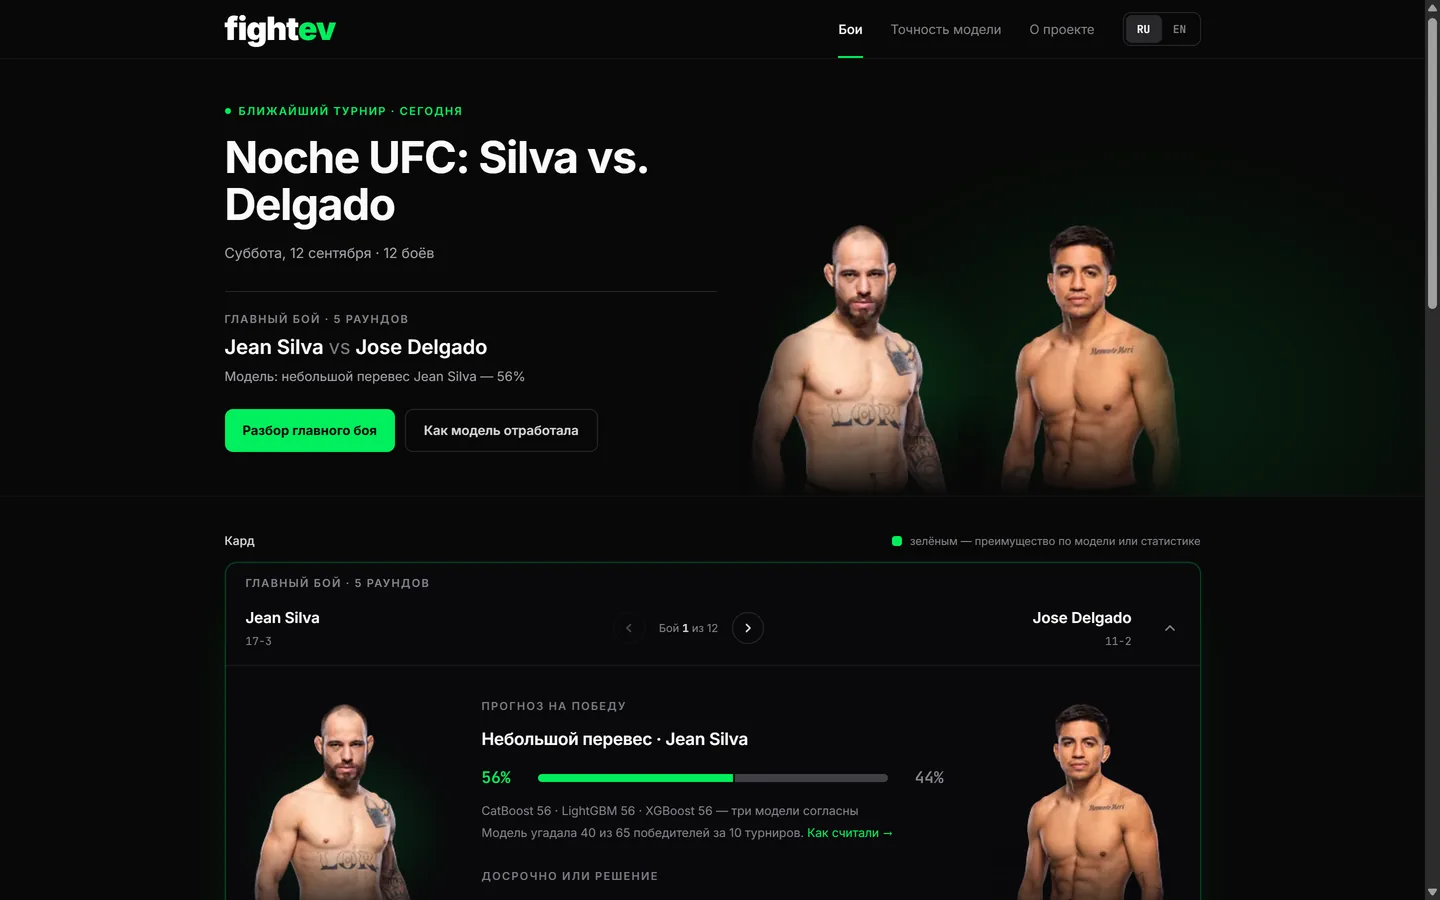
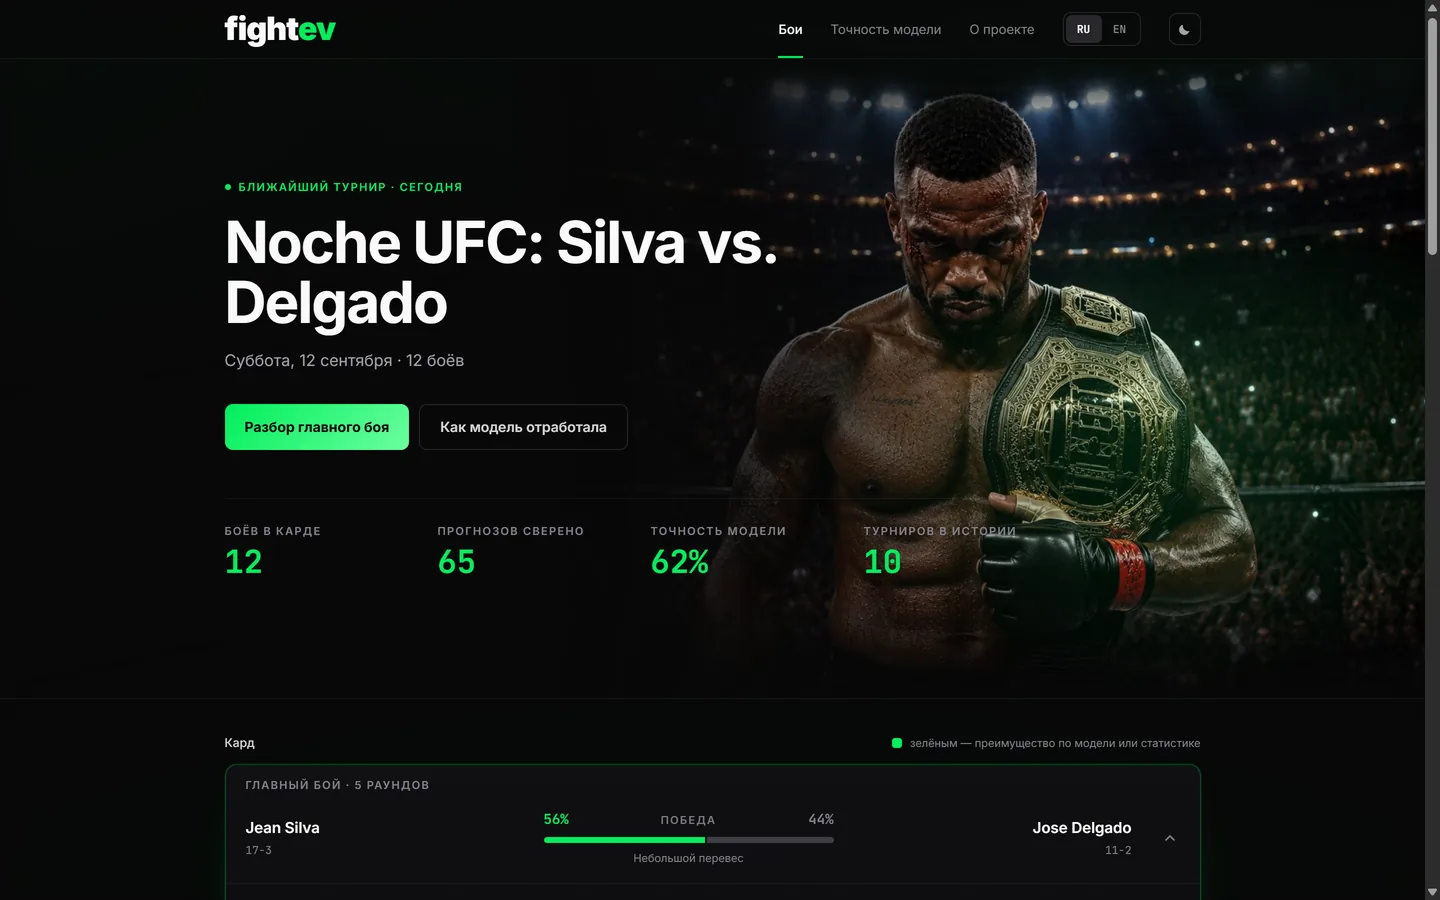
Tale of the tape leads the panel, pager moves to its foot, closer hero crop on phones

diff --git a/src/components/FightCard.tsx b/src/components/FightCard.tsx
@@ -4,8 +4,8 @@ import type { Fight, Fighter, Track } from '../data'
 import { useI18n } from '../i18n'
 import { Z600, cx, lowData, record, split, verdict } from '../lib/fight'
 import { Collapse } from '../lib/motion'
-import { PredictionBlock, ResultBadge, SidePanel, TapeDesktop, TapeMobile, resultText } from './FightDetails'
-import { Avatar, Chevron, Pct, Portrait, ProbBar, SectionLabel, Tag } from './ui'
+import { Module, PredictionBlock, ResultBadge, SidePanel, TapeDesktop, TapeMobile, resultText } from './FightDetails'
+import { Avatar, Chevron, Pct, Portrait, ProbBar, Tag } from './ui'
 
 interface Props {
   fight: Fight
@@ -112,7 +112,9 @@ function DesktopSide({ f, open, right }: { f: Fighter; open: boolean; right?: bo
   )
 }
 
-function DesktopPanel({ fight, track }: { fight: Fight; track: Track }) {
+function DesktopPanel({ fight, track, index, total, onGo }: {
+  fight: Fight; track: Track; index: number; total: number; onGo: (i: number) => void
+}) {
   const { t } = useI18n()
   const p1 = fight.p_win_f1
   return (
@@ -122,22 +124,21 @@ function DesktopPanel({ fight, track }: { fight: Fight; track: Track }) {
           <Portrait f={fight.fighter_1} fav={p1 > 0.5} />
           <SidePanel f={fight.fighter_1} />
         </div>
-        <div className="flex flex-col gap-2.5 pt-1">
-          <PredictionBlock fight={fight} track={track} />
-          <section className="stack-item relative rounded-xl border border-line bg-mod px-4 py-3.5"
-            style={{ zIndex: 17, animationDelay: '270ms' }}>
-            <SectionLabel>{t.tape}</SectionLabel>
-            <TapeDesktop fight={fight} />
-          </section>
+        <div className="stack flex flex-col gap-2.5 pt-1">
+          <Module i={0} title={t.tape}><TapeDesktop fight={fight} /></Module>
+          <PredictionBlock fight={fight} track={track} first={1} />
         </div>
         <div className="flex flex-col items-end gap-[18px]">
           <Portrait f={fight.fighter_2} fav={p1 < 0.5} />
           <SidePanel f={fight.fighter_2} align="end" />
         </div>
       </div>
-      <div className="flex items-center justify-between gap-6 border-t border-line px-5 py-3.5 text-[11px] leading-normal text-zinc-600">
-        <span>{t.disclaimer}</span>
-        <Link to="/accuracy" className="whitespace-nowrap font-medium">{t.howPerformed}</Link>
+      {/* the pager sits at the end: you read the fight, then move to the next one */}
+      <div className="flex items-center justify-between gap-6 border-t border-line px-5 py-3">
+        <span className="max-w-[620px] text-[11px] leading-normal text-zinc-600">
+          {t.disclaimer} <Link to="/accuracy" className="whitespace-nowrap font-medium">{t.howPerformed}</Link>
+        </span>
+        <FightNav index={index} total={total} onGo={onGo} size={32} />
       </div>
     </>
   )
@@ -212,7 +213,9 @@ function Tabs({ fight, track, desktopRow }: { fight: Fight; track: Track; deskto
   )
 }
 
-function CompactPanel({ fight, track, desktopRow }: { fight: Fight; track: Track; desktopRow: boolean }) {
+function CompactPanel({ fight, track, desktopRow, index, total, onGo }: {
+  fight: Fight; track: Track; desktopRow: boolean; index: number; total: number; onGo: (i: number) => void
+}) {
   const { t } = useI18n()
   const p1 = fight.p_win_f1
   return (
@@ -222,6 +225,7 @@ function CompactPanel({ fight, track, desktopRow }: { fight: Fight; track: Track
         <div className="flex justify-end"><Portrait f={fight.fighter_2} fav={p1 < 0.5} w={180} /></div>
       </div>
       <Tabs fight={fight} track={track} desktopRow={desktopRow} />
+      <div className="flex justify-center border-t border-line pt-4"><FightNav index={index} total={total} onGo={onGo} size={40} /></div>
       <p className="text-xs leading-normal text-zinc-500">
         {t.disclaimerShort} <Link to="/accuracy">{t.howPerformed}</Link>
       </p>
@@ -243,8 +247,8 @@ export const FightCard = forwardRef<HTMLDivElement, Props>(function FightCard(
       ? `${fight.title_fight ? t.titleFight : ''}${fight.title_fight ? ' · ' : ''}${t.rounds(fight.num_rounds)}`
       : null
 
-  const center = open && !solo
-    ? <FightNav index={index} total={total} onGo={onGo} size={desktopRow ? 32 : 40} />
+  const center = open
+    ? null
     : fight.result ? <ResultCenter fight={fight} /> : <ProbCenter fight={fight} />
   const toggle = solo ? undefined : onToggle
 
@@ -301,8 +305,8 @@ export const FightCard = forwardRef<HTMLDivElement, Props>(function FightCard(
       <Collapse id={panelId} open={open} instantClose={instantClose}>
         <div className="xp border-t border-line">
           {desktopPanel
-            ? <DesktopPanel fight={fight} track={track} />
-            : <CompactPanel fight={fight} track={track} desktopRow={desktopRow} />}
+            ? <DesktopPanel fight={fight} track={track} index={index} total={total} onGo={onGo} />
+            : <CompactPanel fight={fight} track={track} desktopRow={desktopRow} index={index} total={total} onGo={onGo} />}
         </div>
       </Collapse>
     </div>

diff --git a/src/components/FightDetails.tsx b/src/components/FightDetails.tsx
@@ -65,24 +65,24 @@ function WinRow({ p1, f1, f2 }: { p1: number; f1: Fighter; f2: Fighter }) {
 
 /** A self-contained block of the panel. The stack animation makes each one slide
  *  out from under the block above it, so a long panel reads as a deck, not a wall. */
-function Module({ title, extra, children, i = 0 }: { title: string; extra?: ReactNode; children: ReactNode; i?: number }) {
+export function Module({ title, extra, children, i = 0, lead = false }: { title: string; extra?: ReactNode; children: ReactNode; i?: number; lead?: boolean }) {
   return (
-    <section className={cx('stack-item relative rounded-xl border border-line bg-mod px-4 py-3.5', i === 0 && 'lead')}
-      style={{ zIndex: 20 - i, animationDelay: `${i * 90}ms` } as React.CSSProperties}>
+    <section className={cx('stack-item relative rounded-xl border border-line bg-mod px-4 py-3.5', lead && 'lead')}
+      style={{ zIndex: 30 - i, animationDelay: `${i * 90}ms` } as React.CSSProperties}>
       <SectionLabel extra={extra}>{title}</SectionLabel>
       {children}
     </section>
   )
 }
 
-function FinishBlock({ fight, track }: { fight: Fight; track: Track }) {
+function FinishBlock({ fight, track, first = 1 }: { fight: Fight; track: Track; first?: number }) {
   const { t } = useI18n()
   const base = track.ufc_finish_rate_24m.rate !== null ? Math.round(track.ufc_finish_rate_24m.rate * 100) : null
   const fin = fight.p_finish !== null ? Math.round(fight.p_finish * 100) : null
   return (
     <>
       {fin !== null && (
-        <Module title={t.finishTitle} i={1}>
+        <Module title={t.finishTitle} i={first}>
           <div className="flex flex-col gap-1.5">
             {([[t.finishEarly, fin, fin >= 50], [t.finishDecision, 100 - fin, fin < 50]] as const).map(([label, v, lead], j) => (
               <div key={label} className="grid grid-cols-[minmax(0,1fr)_auto] items-center gap-3">
@@ -100,7 +100,7 @@ function FinishBlock({ fight, track }: { fight: Fight; track: Track }) {
           <p className="m-0 mt-2 text-xs leading-normal text-zinc-500">{t.finishModelNote}</p>
         </Module>
       )}
-      <Module title={fin !== null ? t.fightHistory : t.finishTitle} i={2}>
+      <Module title={fin !== null ? t.fightHistory : t.finishTitle} i={first + 1}>
       {[fight.fighter_1, fight.fighter_2].map((f, j) => {
         const n = f.decided_fights, k = f.finish_fights
         const pct = n ? Math.round((k / n) * 100) : 0
@@ -126,14 +126,14 @@ function FinishBlock({ fight, track }: { fight: Fight; track: Track }) {
   )
 }
 
-export function PredictionBlock({ fight, track }: { fight: Fight; track: Track }) {
+export function PredictionBlock({ fight, track, first = 0 }: { fight: Fight; track: Track; first?: number }) {
   const { t } = useI18n()
   const v = verdict(fight.p_win_f1)
   const fav = favourite(fight)
   const done = fight.result
   return (
     <div className="stack flex flex-col gap-2.5">
-      <Module i={0} title={done ? t.predictionWas : t.winForecast}
+      <Module i={first} lead title={done ? t.predictionWas : t.winForecast}
         extra={lowData(fight) ? <Tag>{t.lowDataLong}</Tag> : undefined}>
       <div className="mb-3.5 flex flex-wrap items-center gap-x-3 gap-y-2">
         <span className="text-[17px] font-semibold tracking-[-0.01em] text-zinc-50">
@@ -151,7 +151,7 @@ export function PredictionBlock({ fight, track }: { fight: Fight; track: Track }
         )}
       </div>
       </Module>
-      <FinishBlock fight={fight} track={track} />
+      <FinishBlock fight={fight} track={track} first={first + 1} />
     </div>
   )
 }

diff --git a/src/pages/Case.tsx b/src/pages/Case.tsx
@@ -104,10 +104,10 @@ export default function Case() {
           src={`${import.meta.env.BASE_URL}case/after.webp`}
           delay={90}
           tag={ru ? 'Стало' : 'After'}
-          alt={ru ? 'Нынешний сайт: главный бой турнира с фото соперников, вероятность 56 % и раскрытая карточка боя'
-                  : 'The current site: the main event with both fighters’ photos, a 56% probability and an opened fight card'}
-          caption={ru ? 'Кард ближайшего турнира: главный бой, вероятности словами и цифрами, рядом — сколько прогнозов модель уже угадала.'
-                      : 'The next event’s card: the main fight, probabilities in words and numbers, and how many forecasts the model has got right so far.'} />
+          alt={ru ? 'Нынешний сайт: афиша турнира, под ней четыре показателя модели и начало карда с раскрытым главным боем'
+                  : 'The current site: the event poster, four model figures under it and the card below, with the headliner already open'}
+          caption={ru ? 'Афиша турнира, счёт модели сразу под ней и кард ниже: каждый бой раскрывается в разбор с прогнозом и статистикой.'
+                      : 'The event poster, the model’s record right under it and the card below: every fight opens into a breakdown with its forecast and stats.'} />
       </div>
 
       <div className="mt-11">

diff --git a/src/index.css b/src/index.css
@@ -293,6 +293,7 @@ a:hover { color: rgb(var(--brand-hover)); }
   -webkit-mask-composite: source-in;
   mask-composite: intersect;
 }
+.hero-art-m img { transform: scale(1.42); transform-origin: 50% 24%; }
 .hero-art-m img {
   -webkit-mask-image: linear-gradient(180deg, #000 46%, transparent 100%);
   mask-image: linear-gradient(180deg, #000 46%, transparent 100%);
